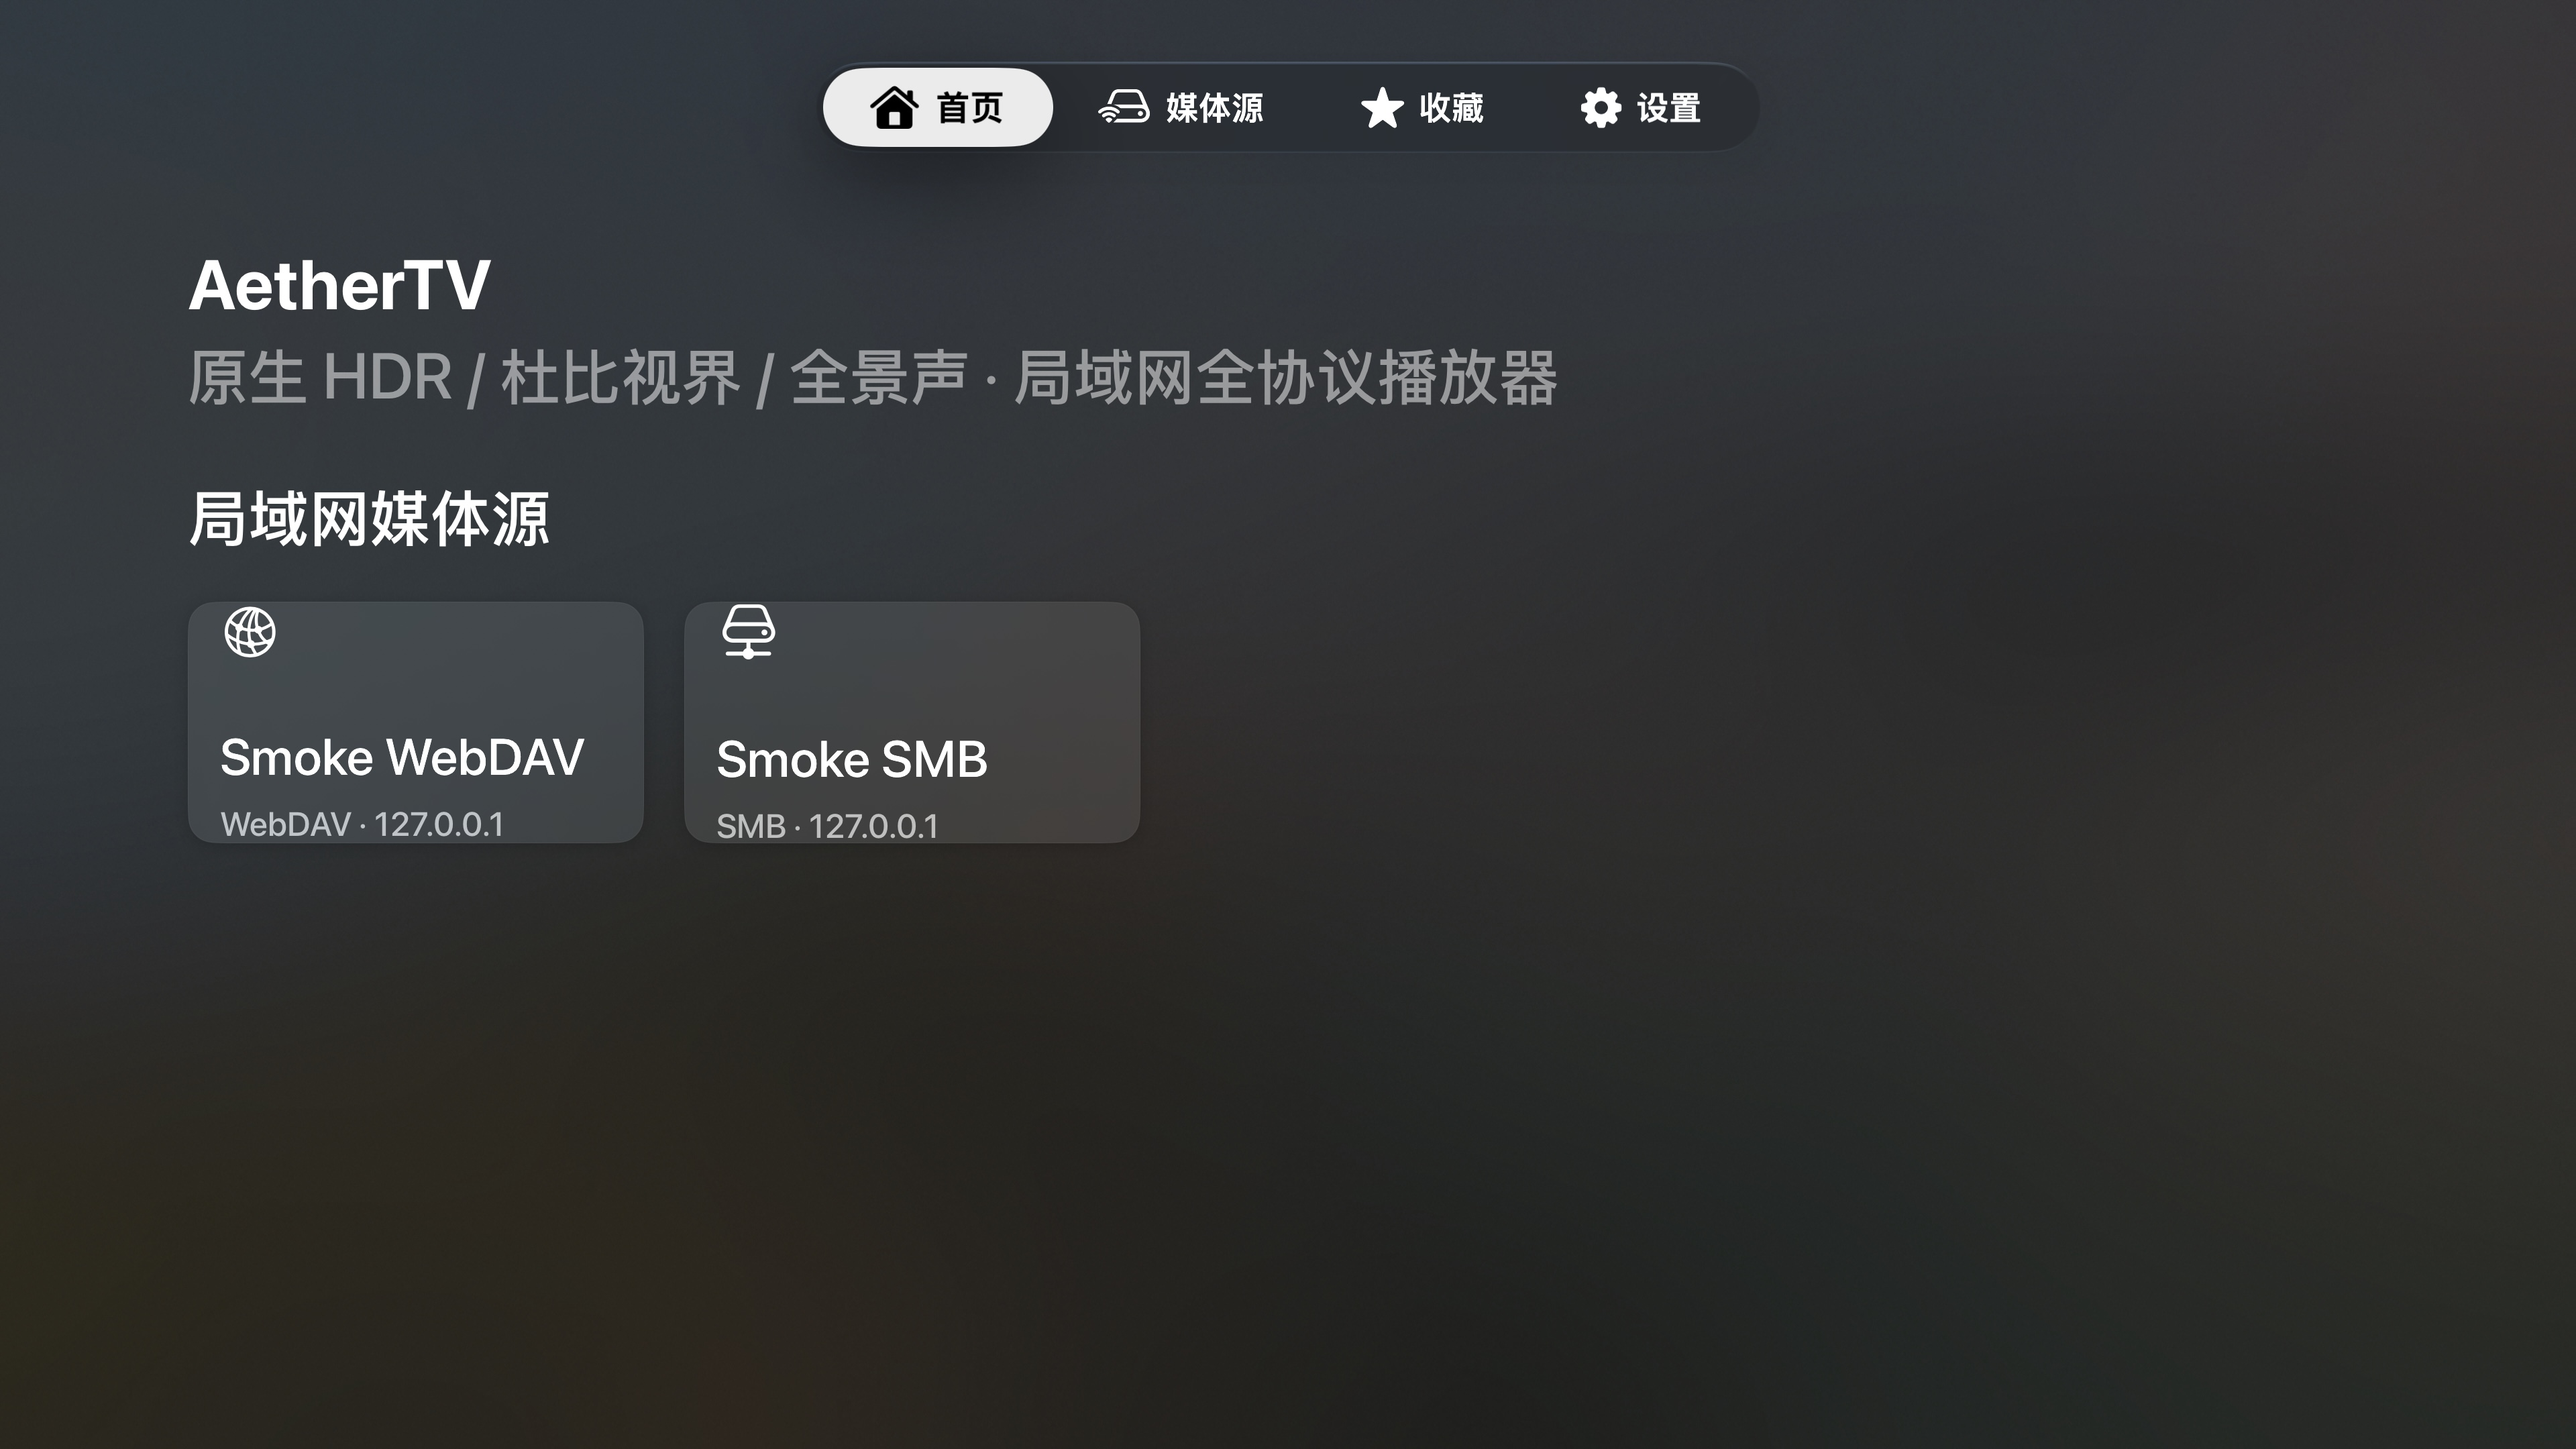
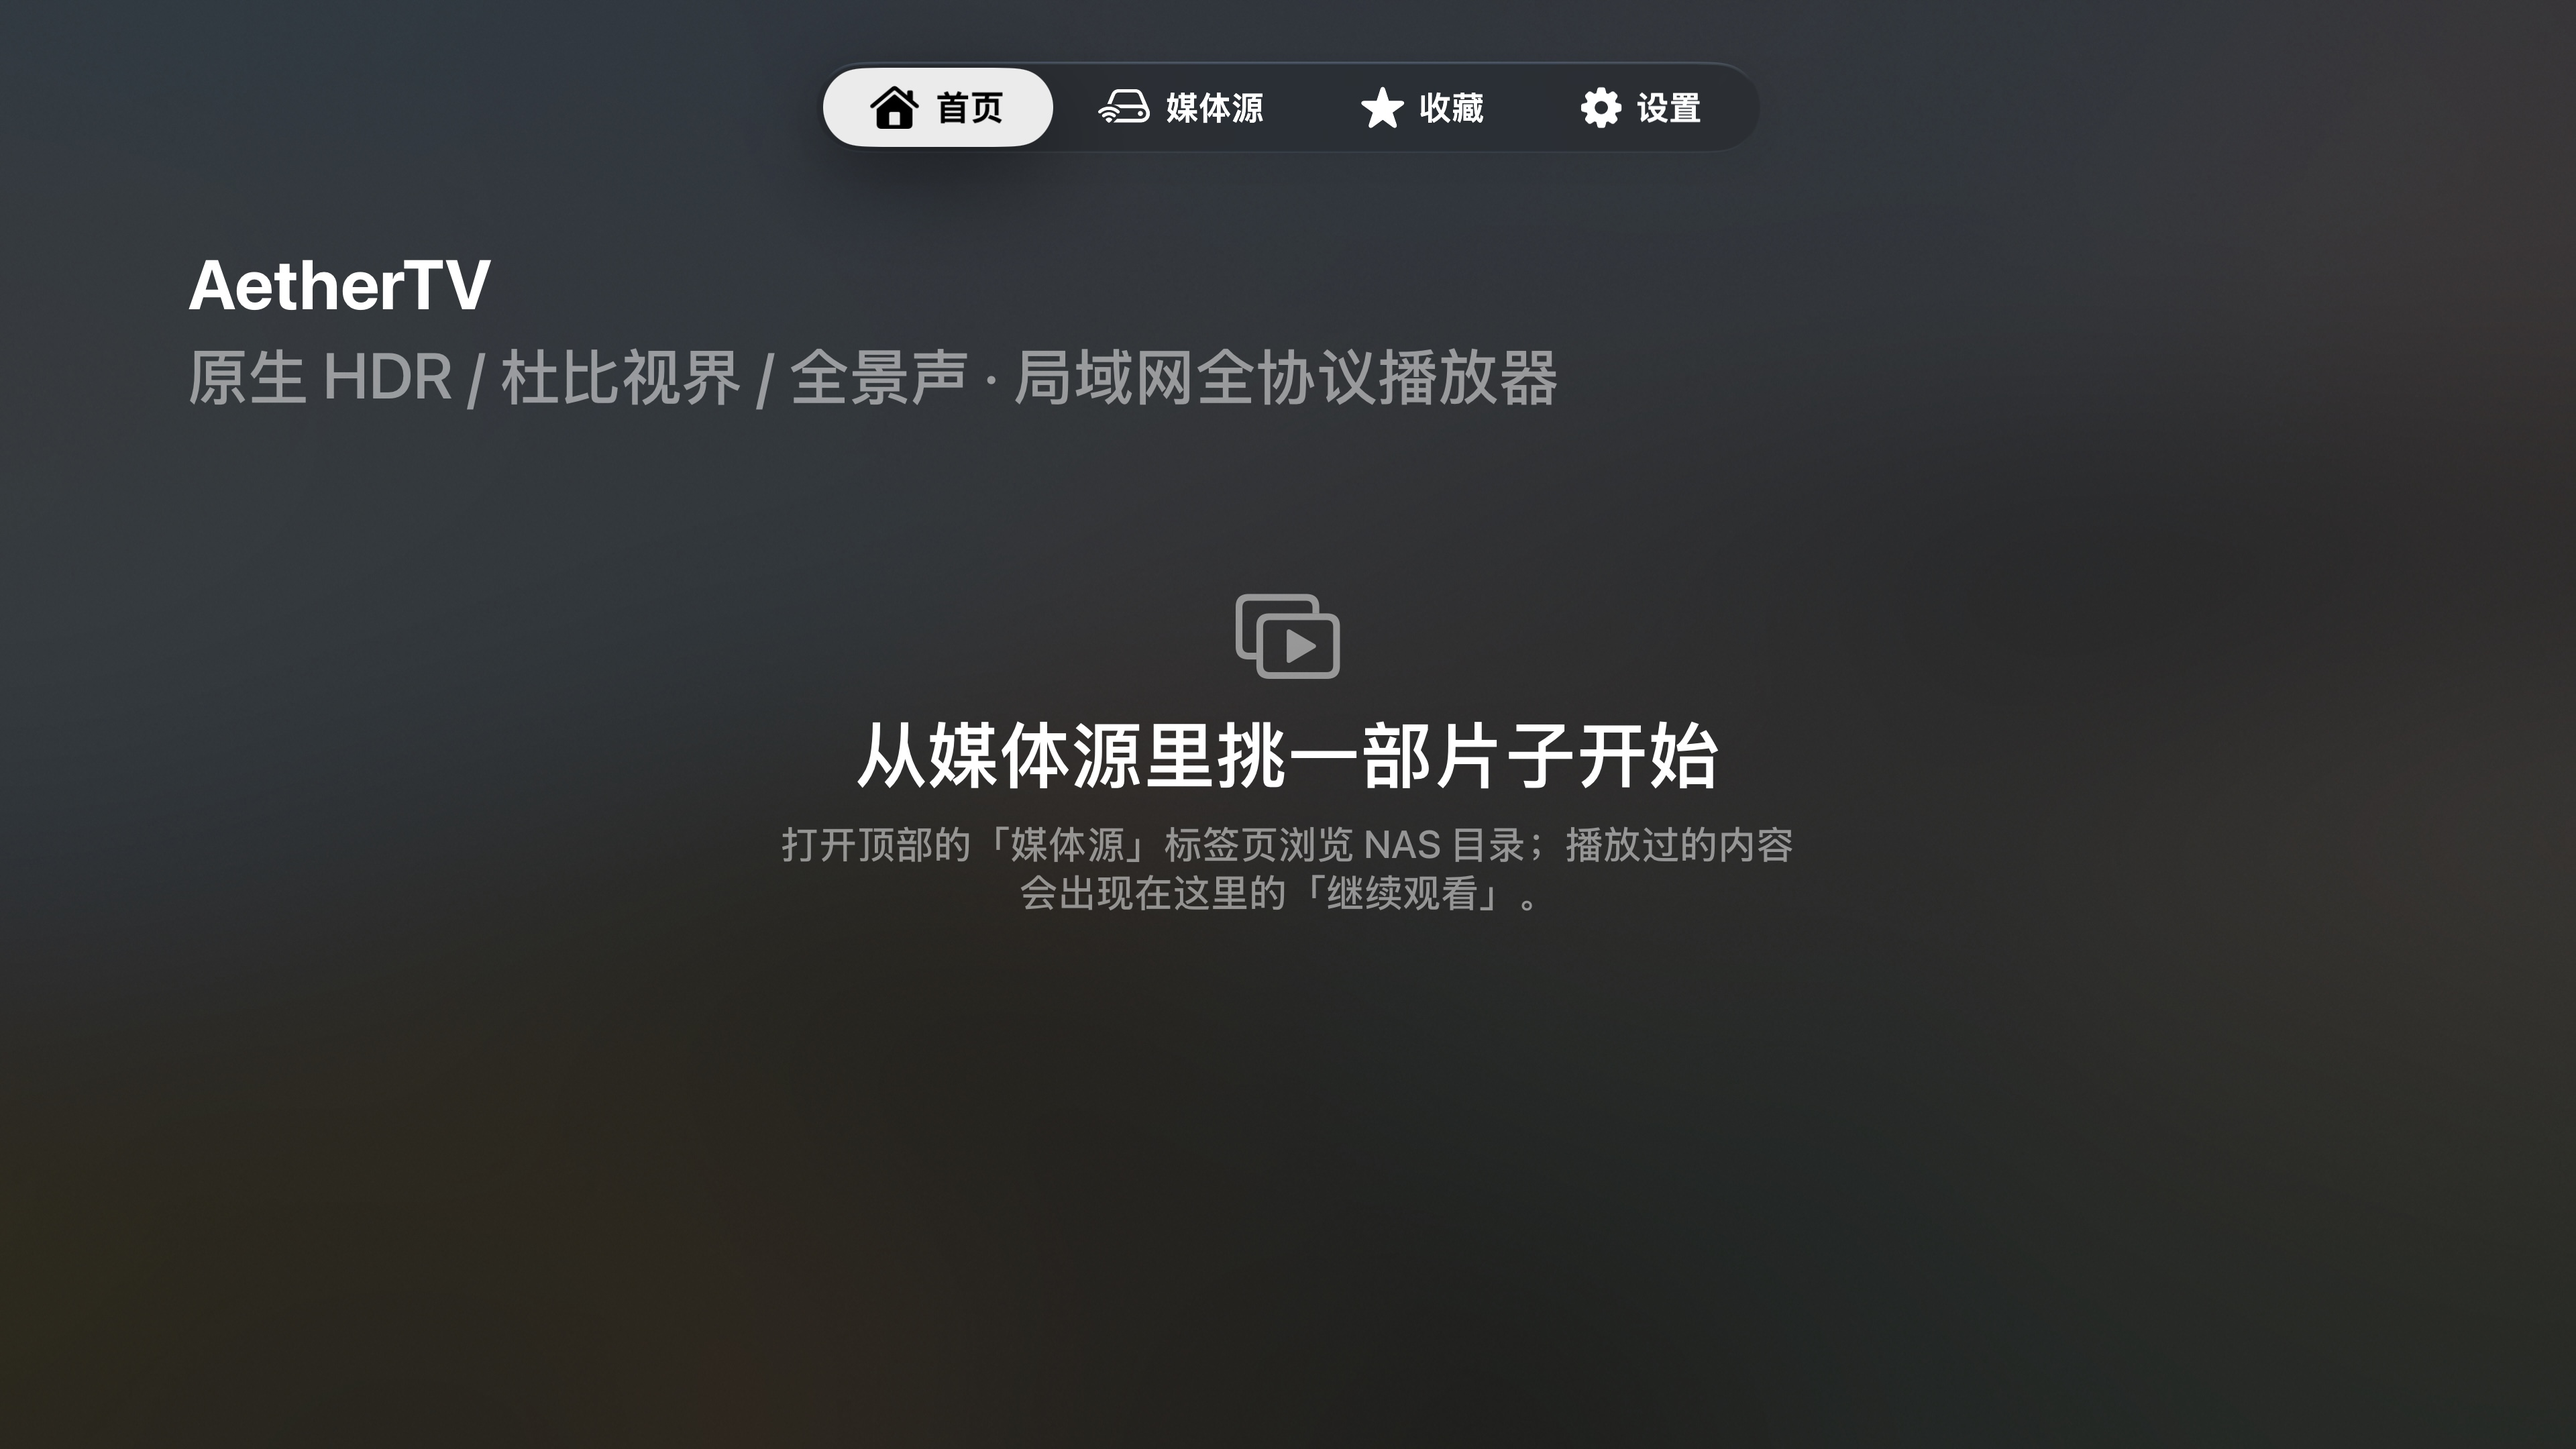
docs: 用修复后的实拍截图更新界面预览（首页引导、进度条观感、继续观看）

diff --git a/README.md b/README.md
@@ -17,6 +17,10 @@
 | :---: | :---: |
 | <img src="docs/screenshots/playback-subtitles.jpg" width="480"> | <img src="docs/screenshots/scrub-preview.jpg" width="480"> |
 
+| 播放后自动出现在首页的「继续观看 / 最近观看」 |
+| :---: |
+| <img src="docs/screenshots/home-continue-watching.jpg" width="720"> |
+
 （图片以 HTML 标签限宽显示；直接点开可看 1920×1080 原图。）
 
 ## 核心特性
